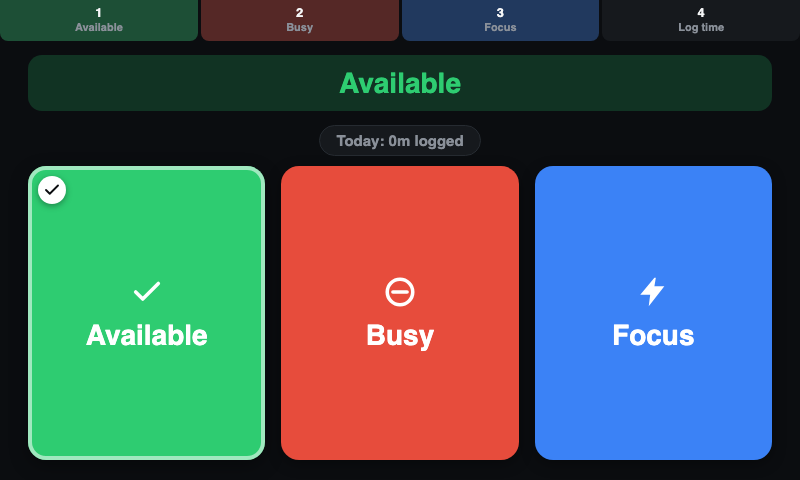
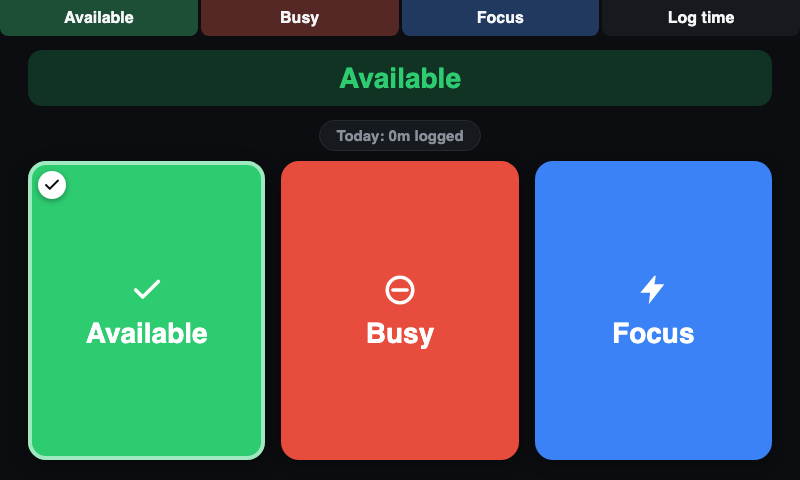
Add a script to regenerate catalog screenshots automatically
Manually-captured screenshots kept drifting out of sync with UI changes
(the button-hint tabs and issue filter chips weren't reflected in three of
the five). scripts/capture-screenshots.mjs drives the real app in
dev:mock mode via Playwright at the device's actual 800x480 to recapture
all of them deterministically — run with `npm run screenshots`.

diff --git a/README.md b/README.md
@@ -191,6 +191,13 @@ and hands off to `scripts/build-catalog-site.mjs`, which:
   the card) — omitted entirely if the folder's empty, since the schema
   wants that key left off rather than sent as `[]`.
 
+Regenerate `screenshots/*.png` with `npm run screenshots` instead of
+capturing them by hand — it drives the real app in `dev:mock` mode
+(Playwright + Chromium, installed once via `npx playwright install
+chromium`) through Home, Focus Setup, Focus Running, Paused and Today, at
+the device's actual 800x480, so they can't drift out of sync with a UI
+change the way a manually-captured set can.
+
 Everything then deploys to `https://<owner>.github.io/<repo>/`. GitHub
 Pages serves it with `Access-Control-Allow-Origin: *`, which is what
 bridgething's catalog fetch needs.
@@ -288,6 +295,7 @@ index.html, src/        the webapp itself (React + TypeScript + Vite)
 scripts/package-webapp.mjs      zips dist/ + manifest.json + icon.png after `vite build`
 scripts/build-catalog-site.mjs  builds the GitHub Pages release site (zip + catalog.json)
 scripts/catalog.schema.v1.json  vendored copy of bridgething's real catalog.v1 schema
+scripts/capture-screenshots.mjs regenerates screenshots/*.png via Playwright against dev:mock (`npm run screenshots`)
 catalog.example.json    example catalog.v1 document for self-hosted distribution
 .github/workflows/ci.yml         lint/typecheck/test/build on push and PR
 .github/workflows/release.yml    builds + publishes a release to GitHub Pages on a version tag
